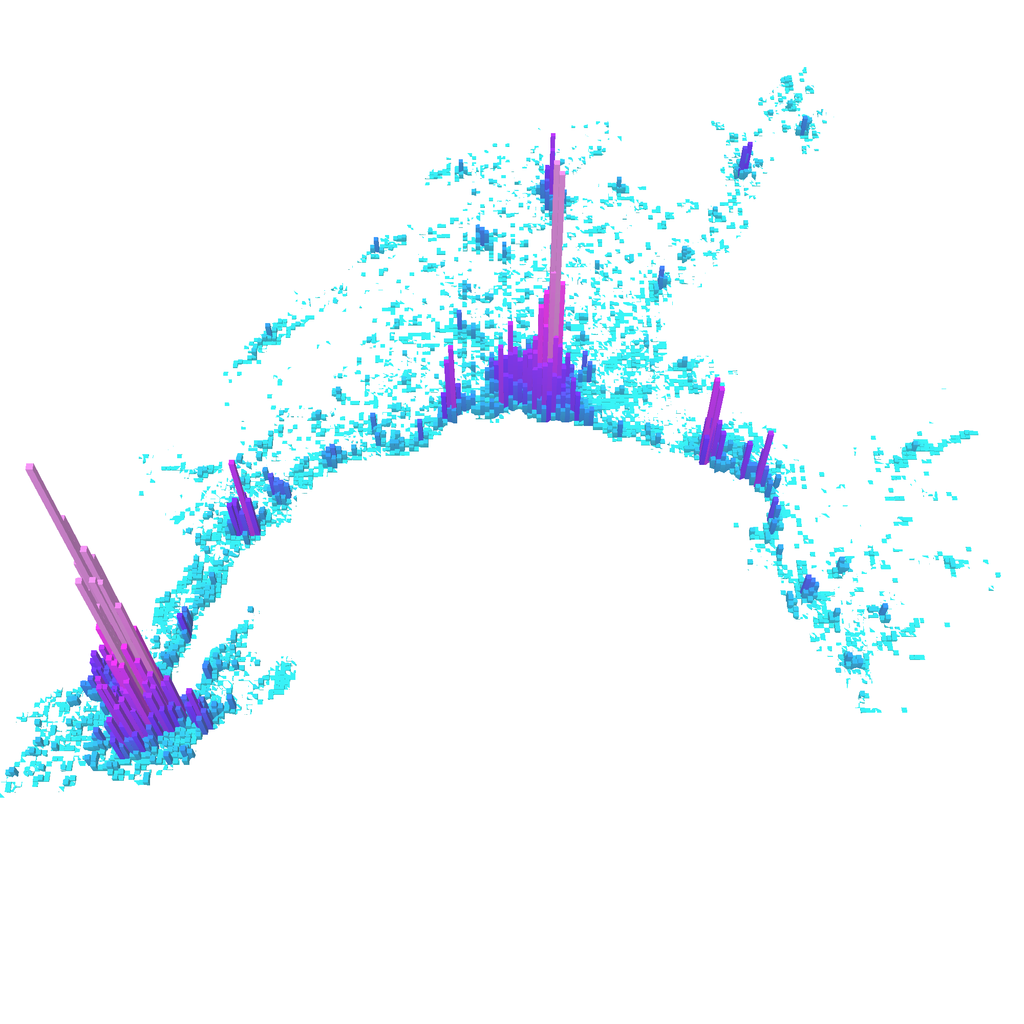
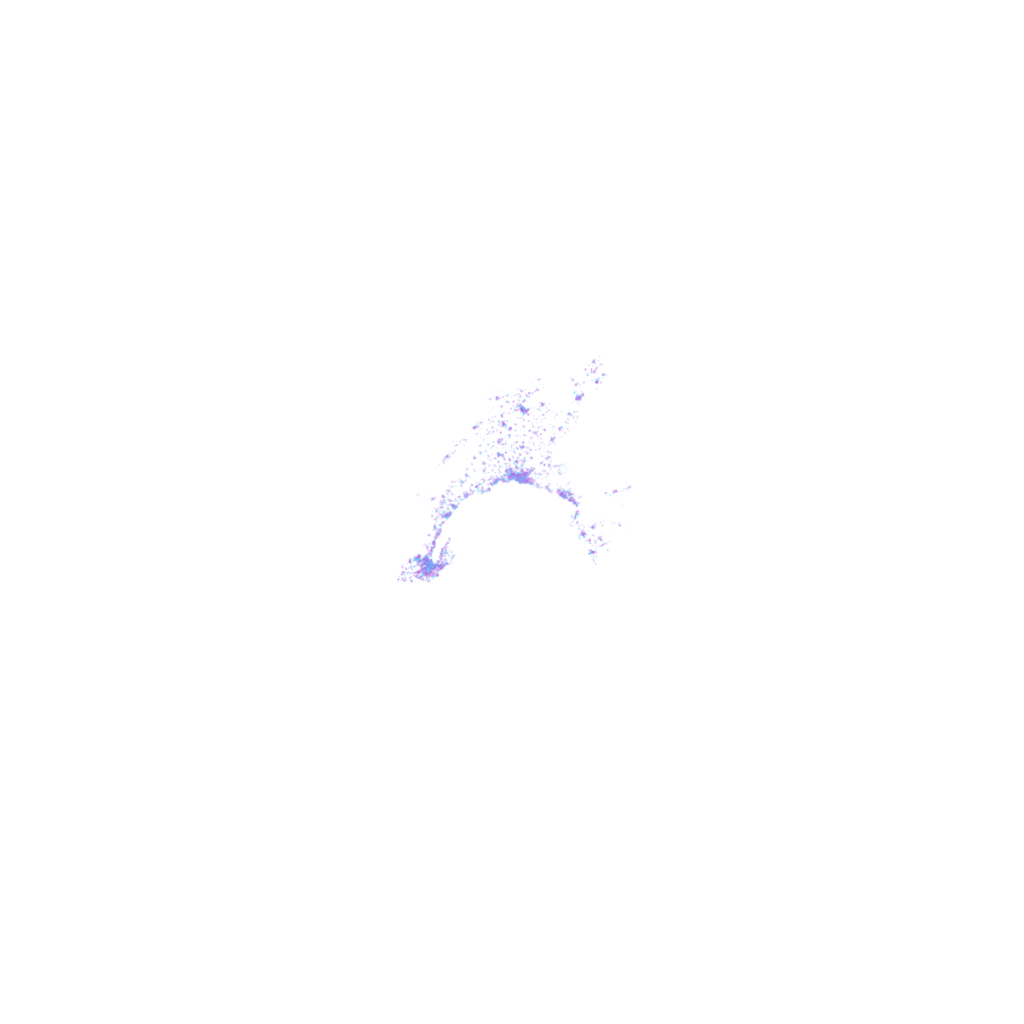
feat(previews): capture far out, and preview population by its flows
Screenshot runs now honour each project's previewZoom, so billboards
frame the data as a compact vignette beside the hero text instead of
filling the globe; interactive views keep their own zoom. Adds ?viz= so
a project can be captured through one of its sub-vizzes, and the
readiness/transparency hooks DaveFlowsMap was missing, so Population
dynamics previews as mobility-flow arcs rather than another bar field.

Regenerated all four previews against the live geodata.

Claude-Session: https://claude.ai/code/session_01K3F4cHk3461cD18Niy5VeU

diff --git a/frontend/src/components/features/DaveFlowsMap.vue b/frontend/src/components/features/DaveFlowsMap.vue
@@ -8,6 +8,7 @@ import { ArcLayer } from "@deck.gl/layers";
 import { projectsGeoJSON } from "@/config/projects";
 import { geodataBaseUrl as baseUrl } from "@/config/geodata";
 import GhslBasemap from "@/components/features/GhslBasemap.vue";
+import { isPreviewMode } from "@/utils/previewMode";
 
 const props = defineProps<{
   projectId: string;
@@ -35,7 +36,12 @@ const basemapCenter: [number, number] = (project?.geometry.coordinates as [
   number,
   number,
 ]) || [6.5, 46.5];
-const basemapZoom = project?.properties.zoom || 8;
+// Screenshot runs capture further out (see ProjectMap.vue) so the landing-page
+// billboard reads as a vignette beside the hero text.
+const basemapZoom =
+  (isPreviewMode ? project?.properties.previewZoom : undefined) ??
+  project?.properties.zoom ??
+  8;
 const basemapPitch = project?.properties.pitch || 0;
 
 // Arc data — set once after fetch
@@ -86,7 +92,9 @@ function makeLayers() {
         return near ? [80, 220, 255, 255] : [80, 200, 255, 18];
       },
       getWidth: (d) => Math.sqrt(d.properties!.flow / maxFlow) * 4,
-      widthMinPixels: 0.5,
+      // Captures are framed far out, where the thinnest arcs fall below a pixel
+      // and the preview reads as haze. Interactive maps keep the fine hairlines.
+      widthMinPixels: isPreviewMode ? 1.4 : 0.5,
       // updateTriggers tell deck.gl when to re-run the color accessors
       updateTriggers: {
         getSourceColor: [brushLng, brushLat, brushActive],
@@ -105,6 +113,25 @@ function scheduleRedraw() {
   });
 }
 
+// Build-time screenshot: report the settled camera and signal the capture
+// script. deck.gl draws the arcs on its own canvas after the map goes idle, so
+// map events alone would fire too early — onAfterRender is the first moment a
+// frame containing arcs actually exists. Guarded so it only ever fires once,
+// and only with data on screen.
+let previewSignalled = false;
+
+function signalPreviewReady() {
+  if (!isPreviewMode || previewSignalled || !map || arcs.length === 0) return;
+  previewSignalled = true;
+  window.__previewCamera = {
+    center: map.getCenter().toArray() as [number, number],
+    zoom: map.getZoom(),
+    pitch: map.getPitch(),
+    bearing: map.getBearing(),
+  };
+  window.__previewReady = true;
+}
+
 const loadFlows = async (url: string) => {
   const resp = await fetch(url);
   const geojson: GeoJSON.FeatureCollection = await resp.json();
@@ -115,6 +142,7 @@ const loadFlows = async (url: string) => {
     deckOverlay = new MapboxOverlay({
       interleaved: false,
       layers: makeLayers(),
+      onAfterRender: signalPreviewReady,
     });
     map!.addControl(deckOverlay as unknown as maplibregl.IControl);
   } else {
@@ -144,6 +172,9 @@ onMounted(() => {
     canvasContextAttributes: { alpha: true, premultipliedAlpha: true },
     style: {
       version: 8,
+      // Match the live globe so the captured curvature and perspective line up
+      // with the hover billboard (same trick as ProjectMap.vue).
+      projection: isPreviewMode ? { type: "globe" } : undefined,
       sources: {},
       layers: [],
     },
@@ -155,7 +186,9 @@ onMounted(() => {
     renderWorldCopies: false,
   });
 
-  map.addControl(new maplibregl.NavigationControl(), "top-left");
+  if (!isPreviewMode) {
+    map.addControl(new maplibregl.NavigationControl(), "top-left");
+  }
 
   map.on("load", () => {
     isLoading.value = false;
@@ -216,6 +249,7 @@ onUnmounted(() => {
 <template>
   <div class="project-map-wrapper">
     <GhslBasemap
+      v-if="!isPreviewMode"
       ref="basemapRef"
       :center="basemapCenter"
       :zoom="basemapZoom"

diff --git a/frontend/src/pages/ProjectDetailView.vue b/frontend/src/pages/ProjectDetailView.vue
@@ -11,7 +11,7 @@ import type { SubViz } from "@/config/projects/types";
 import { renderDescription } from "@/utils/markdown";
 import { DEFAULT_TITLE } from "@/router";
 import { useIsCompactProject } from "@/composables/useIsMobile";
-import { isPreviewMode } from "@/utils/previewMode";
+import { isPreviewMode, previewVizId } from "@/utils/previewMode";
 import {
   computed,
   defineAsyncComponent,
@@ -49,7 +49,17 @@ const projectConfig = computed(() =>
 
 const subVizList = computed(() => projectConfig.value?.subViz);
 
-const activeSubVizIndex = ref(0);
+// Screenshot runs may target a specific sub-viz via `?viz=<id>` so the landing
+// page billboard shows e.g. mobility flows instead of the default bars.
+const initialSubVizIndex = (() => {
+  if (!isPreviewMode || !previewVizId) return 0;
+  const index = allProjects
+    .find((p) => p.id === projectId)
+    ?.subViz?.findIndex((viz) => viz.id === previewVizId);
+  return index != null && index >= 0 ? index : 0;
+})();
+
+const activeSubVizIndex = ref(initialSubVizIndex);
 
 const activeRenderer = computed(() => {
   if (subVizList.value) {
@@ -76,6 +86,11 @@ const activeCenter = computed(() => {
 });
 
 const activeZoom = computed(() => {
+  // Screenshot runs frame further out (see ProjectMap.vue) so landing-page
+  // billboards read as vignettes beside the hero text.
+  if (isPreviewMode && projectConfig.value?.previewZoom != null) {
+    return projectConfig.value.previewZoom;
+  }
   if (subVizList.value) {
     return (
       subVizList.value[activeSubVizIndex.value]?.zoom ??

diff --git a/frontend/src/utils/previewMode.ts b/frontend/src/utils/previewMode.ts
@@ -7,6 +7,15 @@ export const isPreviewMode =
   typeof window !== "undefined" &&
   new URLSearchParams(window.location.search).has("preview");
 
+// Optional `?viz=<subViz id>`: captures a specific sub-visualization instead of
+// the project's first one, so e.g. Population dynamics can be previewed by its
+// mobility-flow arcs rather than its extruded bars. Ignored outside preview
+// mode; an unknown id falls back to the first sub-viz.
+export const previewVizId =
+  typeof window !== "undefined"
+    ? new URLSearchParams(window.location.search).get("viz")
+    : null;
+
 // The camera the settled capture was taken from. The hover preview flies the
 // globe to this exact pose and shows the captured image as a screen-aligned
 // billboard, so the baked-in pitch/zoom perspective matches the live globe.

diff --git a/frontend/src/components/features/ProjectMap.vue b/frontend/src/components/features/ProjectMap.vue
@@ -30,7 +30,14 @@ const basemapCenter: [number, number] = (project?.geometry.coordinates as [
   number,
   number,
 ]) || [8.2, 46.8];
-const basemapZoom = project?.properties.zoom || 8;
+// Screenshot runs capture at `previewZoom` when the project sets one, so the
+// landing-page billboard frames the dataset as a compact vignette that sits
+// beside the hero text instead of filling the globe. Interactive visits always
+// use the project's own `zoom`.
+const basemapZoom =
+  (isPreviewMode ? project?.properties.previewZoom : undefined) ??
+  project?.properties.zoom ??
+  8;
 const basemapPitch = project?.properties.pitch || 0;
 
 const buildTemporalField = (
